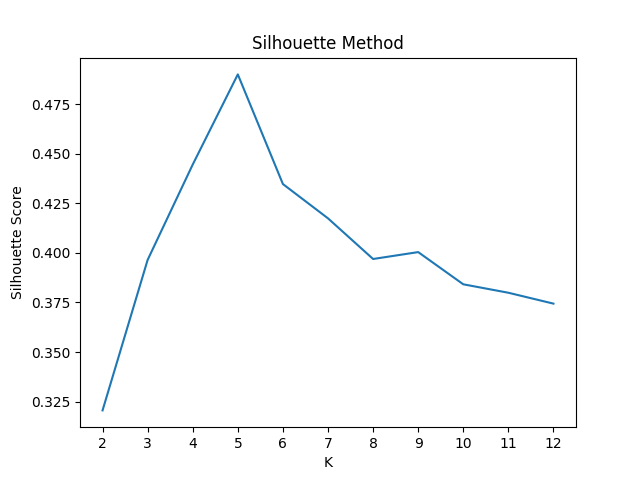
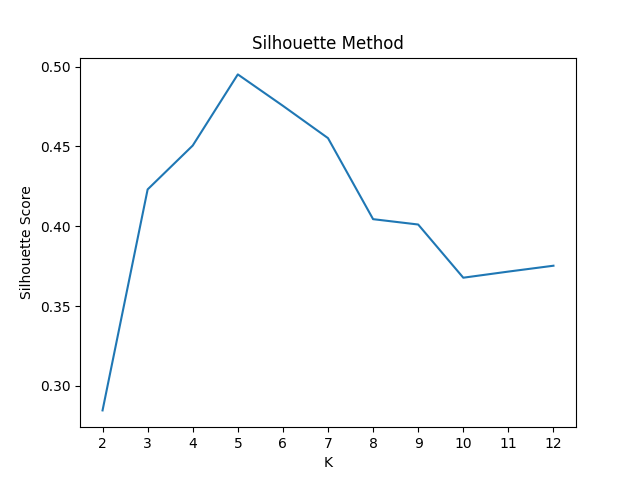
big progress 2

diff --git a/train.py b/train.py
@@ -1,9 +1,11 @@
-from copy import deepcopy
+import numpy as np
 import pandas as pd
 import random
 
+from my_model.cluster_metric import davies_bouldin_index, silhouette_score
 from my_model.k_mean import KMeans
-from my_model.my_plot import plot_customer_clusters
+from my_model.my_plot import plot_customer_clusters, plot_train_history
+from my_model.preprocessing import min_max_scaling, z_score_scaling
 
 FIELD = ['Age', 'Annual Income (k$)', 'Spending Score (1-100)']
 
@@ -15,21 +17,20 @@ customers = customer_df[FIELD].to_numpy(dtype=object)
 # idx = random.sample(range(len(customers)), 100)
 # customers = customers[idx, :]
 
-X = deepcopy(customers)
+outlier_idx = [196, 197, 198, 199]
+customers = np.delete(customers, outlier_idx, axis=0)
 
-# Normalization (min-max scaling)
-min_i = [18, 15, 1]
-max_i = [70, 137, 99]
-for cus in X:
-    for i in range(len(cus)):
-        cus[i] = (cus[i] - min_i[i]) / (max_i[i] - min_i[i])
-        if i == 0: cus[i] /= 3 # weight age = 1/3
-        
-print(FIELD)
-print(X)
+# Scaling
+X = z_score_scaling(customers)
+X[:, 0] /= 3 # weight age = 1/3
+
+# print(FIELD)
+# print(X)
 
 km = KMeans(k=5)
-km.fit(X)
+hist = km.fit(X)
 labels = km.predict(X)
 
+plot_train_history(hist['SSE'])
+print(davies_bouldin_index(X, labels))
 plot_customer_clusters(customers, labels, FIELD)

diff --git a/detect_outlier(after_training).py b/detect_outlier(after_training).py
@@ -1,16 +1,17 @@
 '''
+NOTE: The detection results is not guaranteed outliers
 Detect possible outliers after training with k = 5 (choosing_k_analyse.py):
 
 Using the IQR method (only upper boundary) on the distances between each example and its cluster's centroid
 -> We find the example whose distance is not ordinary (too big)
 '''
-from copy import deepcopy
 import numpy as np
 import pandas as pd
 
 from my_model.distance_function import euclidean_distance
 from my_model.k_mean import KMeans
 from my_model.my_plot import plot_customer_clusters
+from my_model.preprocessing import min_max_scaling, z_score_scaling
 
 FIELD = ['Age', 'Annual Income (k$)', 'Spending Score (1-100)']
 
@@ -18,16 +19,11 @@ FIELD = ['Age', 'Annual Income (k$)', 'Spending Score (1-100)']
 customer_df = pd.read_csv('data/Mall_Customers.csv')
 customers = customer_df[FIELD].to_numpy(dtype=object)
 
-X = deepcopy(customers)
+# Scaling
+X = z_score_scaling(customers)
+X[:, 0] /= 3 # weight age = 1/3
 
-# Normalization (min-max scaling)
-min_i = [18, 15, 1]
-max_i = [70, 137, 99]
-for cus in X:
-    for i in range(len(cus)):
-        cus[i] = (cus[i] - min_i[i]) / (max_i[i] - min_i[i])
-        if i == 0: cus[i] /= 3 # weight age = 1/3
-
+# Training
 km = KMeans(k=5)
 km.fit(X)
 labels = km.predict(X)

diff --git a/choosing_k_analyse.py b/choosing_k_analyse.py
@@ -1,9 +1,8 @@
-from copy import deepcopy
 import pandas as pd
-import random
 
 from my_model.k_mean import KMeans
 from my_model.my_plot import *
+from my_model.preprocessing import min_max_scaling, z_score_scaling
 
 FIELD = ['Age', 'Annual Income (k$)', 'Spending Score (1-100)']
 
@@ -11,19 +10,9 @@ FIELD = ['Age', 'Annual Income (k$)', 'Spending Score (1-100)']
 customer_df = pd.read_csv('data/Mall_Customers.csv')
 customers = customer_df[FIELD].to_numpy(dtype=object)
 
-# # Random Sampling (avoid outliers)
-# idx = random.sample(range(len(customers)), 100)
-# customers = customers[idx, :]
-
-X = deepcopy(customers)
-
-# Normalization (min-max scaling)
-min_i = [18, 15, 1]
-max_i = [70, 137, 99]
-for cus in X:
-    for i in range(len(cus)):
-        cus[i] = (cus[i] - min_i[i]) / (max_i[i] - min_i[i])
-        if i == 0: cus[i] /= 3 # weight age = 1/3
+# Scaling
+X = z_score_scaling(customers)
+X[:, 0] /= 3 # weight age = 1/3
 
 print(FIELD)
 print(X)
@@ -36,4 +25,3 @@ km = KMeans(5)
 km.fit(X)
 labels = km.predict(X)
 plot_silhouette_single_k(X, labels)
-

diff --git a/my_model/preprocessing.py b/my_model/preprocessing.py
@@ -1,0 +1,28 @@
+from copy import deepcopy
+import numpy as np
+
+# Normalization
+def min_max_scaling(X):
+    min_i = np.min(X, axis=0)
+    max_i = np.max(X, axis=0)
+
+    normalized_X = deepcopy(X)
+    for cus in normalized_X:
+        for i in range(len(cus)):
+            cus[i] = (cus[i] - min_i[i]) / (max_i[i] - min_i[i])
+
+    return normalized_X
+
+# Standardization
+def z_score_scaling(X):
+    standardized_X = deepcopy(X)
+    standardized_X = standardized_X.astype(float)
+
+    mean_i = np.mean(standardized_X, axis=0)
+    std_i = np.std(standardized_X, axis=0)
+
+    for cus in standardized_X:
+        for i in range(len(cus)):
+            cus[i] = (cus[i] - mean_i[i]) / std_i[i]
+    
+    return standardized_X

diff --git a/my_model/my_plot.py b/my_model/my_plot.py
@@ -1,5 +1,6 @@
-import matplotlib.pyplot as plt
 from matplotlib import cm
+import matplotlib.pyplot as plt
+import matplotlib.ticker as mticker
 import numpy as np
 
 from .cluster_metric import silhouette_coefficients, silhouette_score, cluster_grouping, centroid
@@ -105,3 +106,11 @@ def plot_customer_clusters(customers, labels, field_names, outliers=None):
             plt.xlabel(field_names[idx1])
             plt.ylabel(field_names[idx2])
             plt.show()
+
+def plot_train_history(SSE_hist):
+    plt.plot(SSE_hist)
+    plt.gca().xaxis.set_major_locator(mticker.MultipleLocator(1))
+    plt.title("Training Sum Square Error History")
+    plt.xlabel("Iteration")
+    plt.ylabel("SSE")
+    plt.show()

diff --git a/detect_outlier(before_training).py b/detect_outlier(before_training).py
@@ -1,4 +1,5 @@
 '''
+NOTE: The detection results is not guaranteed outliers
 Detect possible outliers in the dataset:
 
 Using the IQR method on each attributes that is chosen to cluster

diff --git a/README.md b/README.md
@@ -3,3 +3,20 @@
 ## Setup:
 - Install libraries in requirements.txt:  
 pip install -r requirements.txt
+
+## Run:
+Run the following python files in the same order:
+
+  ### choosing_k_analyse.py
+  Analyse on choosing the optimized hyperparameter k (number of cluster) by combining 2 methods:
+  + Elbow Method
+  + Silhouette Method
+
+  ### detect_outlier(before_training).py
+  Identify potential outliers by using IQR method on each features of the original dataset
+
+  ### detect_outlier(after_training).py
+  Identify potential outliers (after training with k chosen in choosing_k_analyse.py) by using IQR method on the distances between each example and its cluster's centroid
+  <br> The potential outliers is circled in the diagram
+
+  ### train.py
